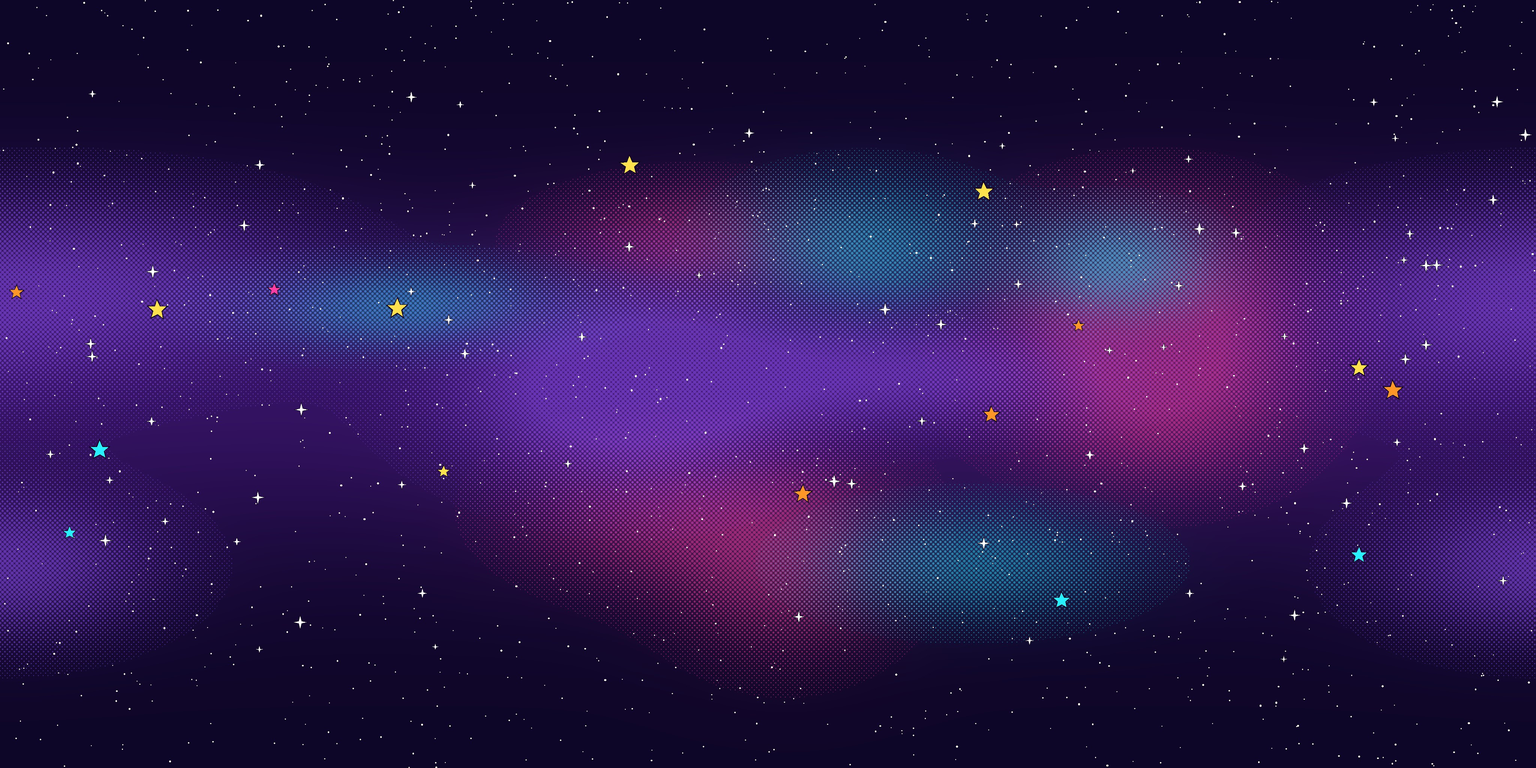
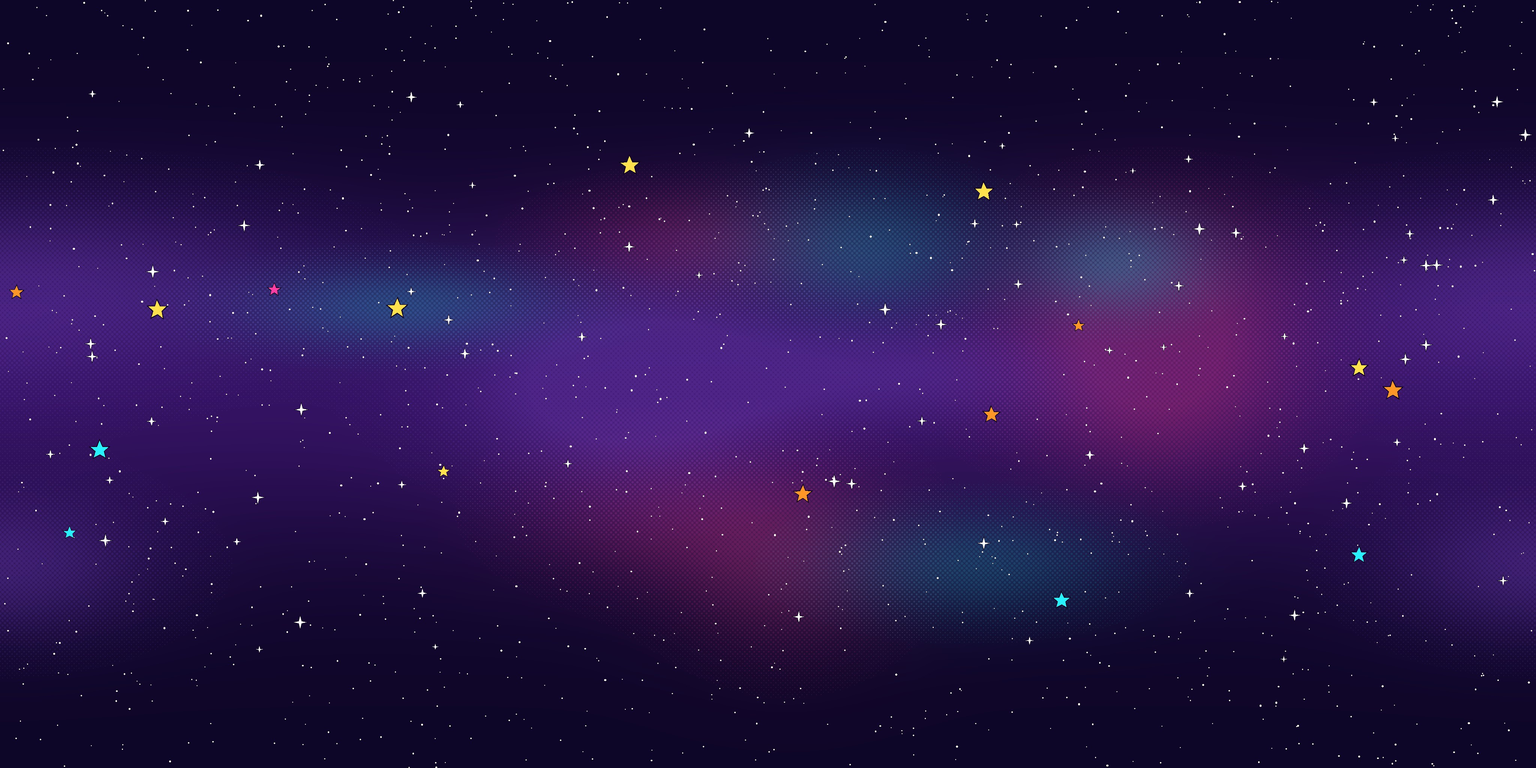
HQ mais leve: retícula só nas sombras e pontinhos só no brilho; céu com retícula suave
Claude-Session: https://claude.ai/code/session_019CTdQ6djbXyMqKZUfEDumg

Changed region(s): [[0.0, 0.2188, 1.0, 0.9062], [0.875, 0.5938, 1.0, 0.875], [0.0, 0.5938, 0.125, 0.875]]

diff --git a/tools/skygen_hq.py b/tools/skygen_hq.py
@@ -38,7 +38,7 @@ for c, f in zip(cols, fields):
     img = img * (1 - body * 0.45) + c * body * 0.45 * 0.6          # corpo leve da nebulosa
     r = 0.48 * np.sqrt(np.clip(f, 0, 1))
     dots = np.clip((r - dd) / 0.05 + 0.5, 0, 1)[..., None] * (body > 0.08)
-    img = img * (1 - dots * 0.45) + c * dots * 0.45
+    img = img * (1 - dots * 0.12) + c * dots * 0.12
 
 im = Image.fromarray(np.clip(img, 0, 255).astype(np.uint8), "RGB").convert("RGBA")
 d = ImageDraw.Draw(im)
